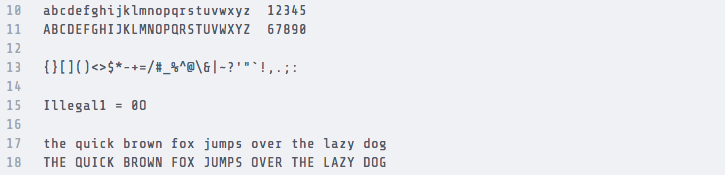
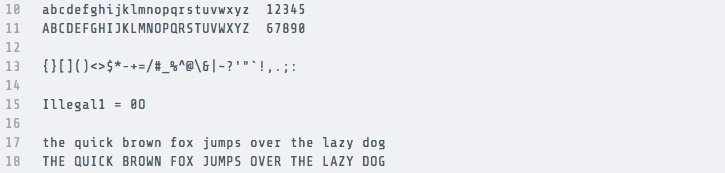
updated Share-TechMono to Share-TechMonoTrue font

diff --git a/README.md b/README.md
@@ -275,7 +275,7 @@
 ![sax Mono](images/sax-mono.png)
 
 
-### [Share Tech Mono](fonts/share-tech-mono)
+### [Share-TechMonoTrue](fonts/share-tech-mono)
 
 ![Share Tech Mono](images/share-tech-mono-TP.png)
 ![Share Tech Mono](images/share-tech-mono.png)
